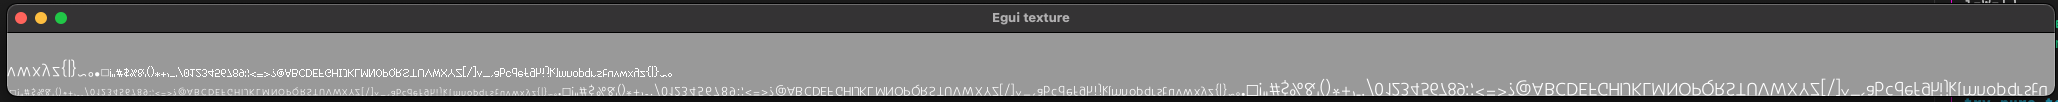
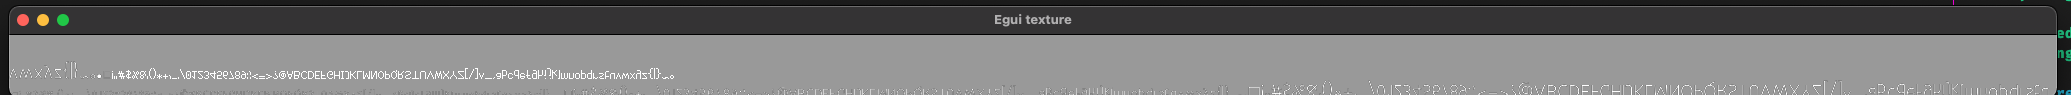
better screenshots

Changed region(s): [[0.0, 0.0, 1.0, 1.0], [0.4665, 0.1263, 0.5287, 0.2737], [0.0, 0.1053, 0.0311, 0.2737]]

diff --git a/src/texture.rs b/src/texture.rs
@@ -40,18 +40,20 @@ impl RenderTexture {
         CS: ColorSlot<Backend, D>,
         DS: DepthSlot<Backend, D>,
     {
-        let render_st = RenderState::default().set_blending_separate(
-            Blending {
-                equation: Equation::Additive,
-                src: Factor::One,
-                dst: Factor::SrcAlphaComplement,
-            },
-            Blending {
-                equation: Equation::Additive,
-                src: Factor::One,
-                dst: Factor::Zero,
-            },
-        );
+        let render_st = RenderState::default()
+            .set_blending_separate(
+                Blending {
+                    equation: Equation::Additive,
+                    src: Factor::SrcAlpha,
+                    dst: Factor::SrcAlphaComplement,
+                },
+                Blending {
+                    equation: Equation::Additive,
+                    src: Factor::SrcAlpha,
+                    dst: Factor::SrcAlphaComplement,
+                },
+            )
+            .set_depth_test(None);
 
         let building_program = surface
             .new_shader_program::<(), (), ShaderInterface>()

diff --git a/README.md b/README.md
@@ -2,6 +2,8 @@
 
 This repo renders Egui's texture the exact same way, same shaders, same rendering flow, on both the GL and WebGL2 backends of Luminance.
 
+The rendering for both occurs in `texture.rs`.
+
 ## Run app on web
 
 ```
@@ -32,7 +34,7 @@ Notes:
 
 ![image of texture on native](./native.png "Egui Texture on native")
 
-This window has the dimensions of the texture, 2048x64. The clear color may be affecting it, but you can clearly see the characters Egui generates.
+This window has the dimensions of the texture, 2048x64.
 
 ## Rendered on web
 
